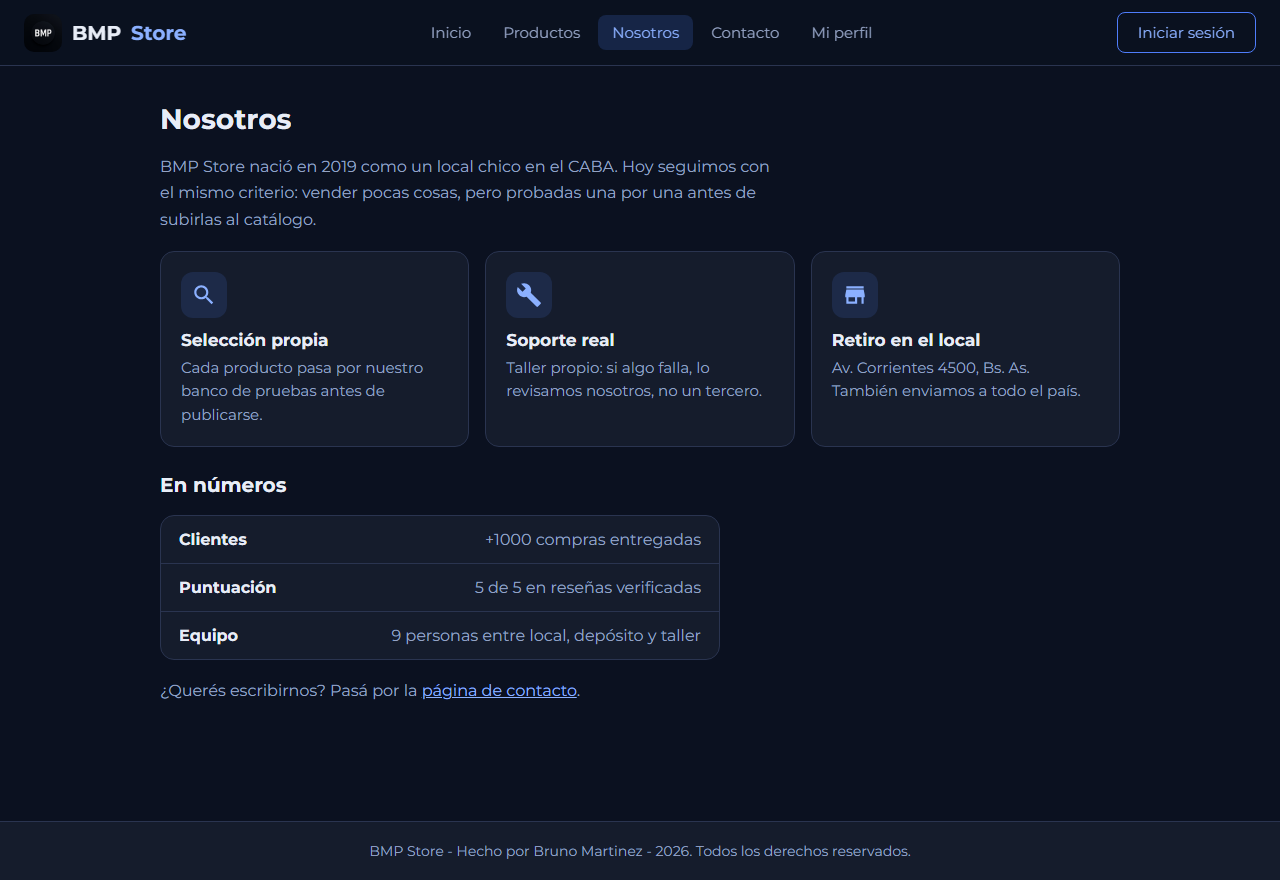
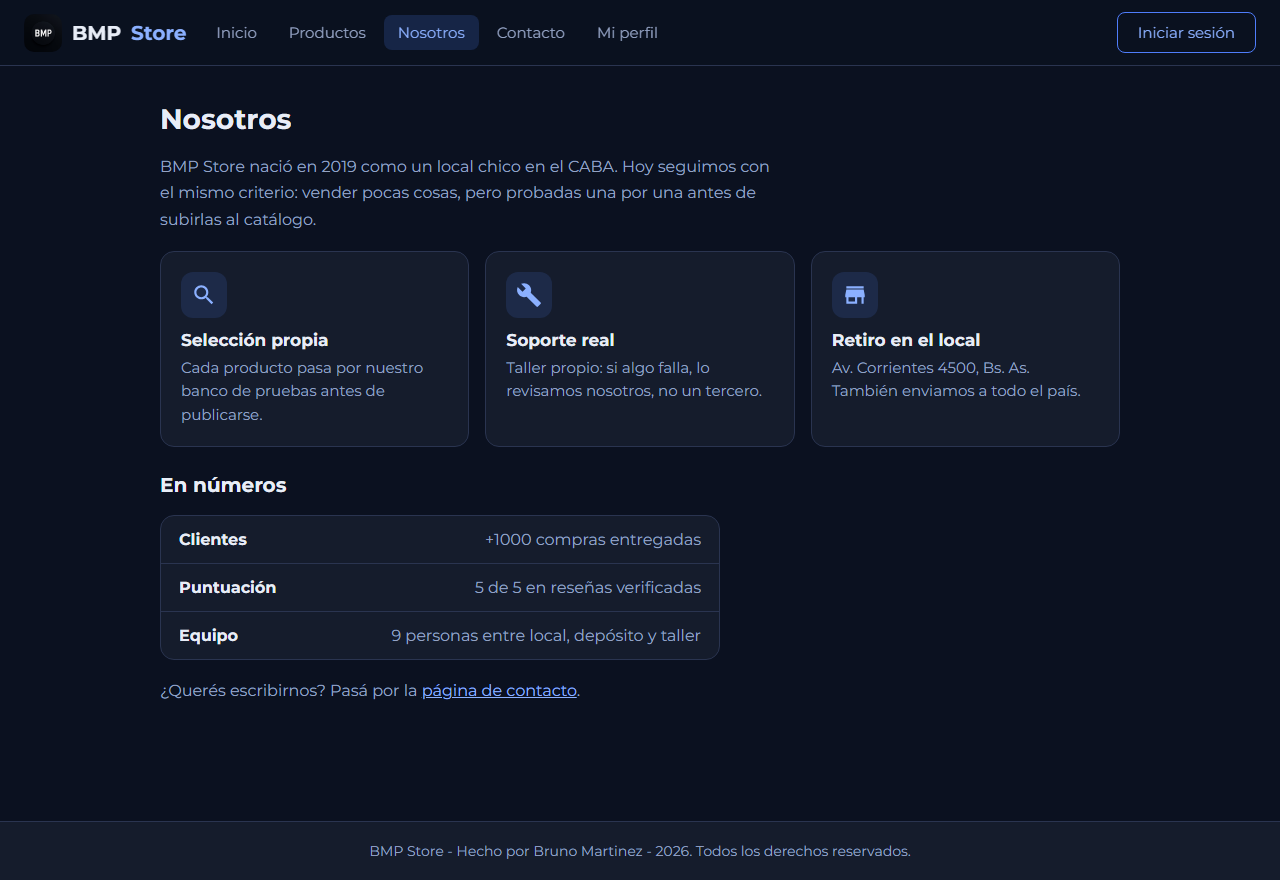
docs: configuracion del Readme y capturas

Changed region(s): [[0.2188, 0.0, 0.5938, 0.0614], [0.625, 0.0307, 0.6875, 0.0614], [0.1562, 0.0307, 0.1875, 0.0614]]

diff --git a/README.md b/README.md
@@ -54,6 +54,29 @@ y `Route` dentro de un layout con navegación fija.
 
 ![Página de contacto](media/contacto.png)
 
+### Vista móvil (390 px)
+
+| Inicio | Menú desplegable | Ficha de producto |
+|--------|------------------|-------------------|
+| ![Inicio en móvil](media/mobile-inicio.png) | ![Menú hamburguesa abierto](media/mobile-menu.png) | ![Producto en móvil](media/mobile-producto.png) |
+
+---
+
+## Diseño responsive
+
+El layout se adapta con **CSS puro** (sin librerías) y un único punto de corte en
+**720 px**:
+
+| Zona | En escritorio | En móvil |
+|------|---------------|----------|
+| Barra de navegación | Logo + enlaces + sesión en una fila | Botón hamburguesa que abre y cierra un panel vertical; el logo queda solo con el texto |
+| Grilla de productos | `repeat(auto-fill, minmax(220px, 1fr))`: 4 columnas | La misma regla resuelve 1 columna sola, sin media query |
+| Ficha del producto | `grid` de 2 columnas (foto + datos) | 1 columna, foto más chica |
+| Botones y buscador | Ancho según contenido | Ocupan todo el ancho para tocarlos con el pulgar |
+
+El menú móvil es lo único que necesita JavaScript: un `useState` en `Layout.jsx`
+guarda si está abierto, y cada `NavLink` lo cierra al navegar.
+
 ---
 
 ## Rutas de la aplicación
@@ -90,16 +113,13 @@ y `Route` dentro de un layout con navegación fija.
 
 ## Cómo funciona la ruta protegida
 
-1. Alguien entra a `/perfil` sin haber iniciado sesión.
-2. `RutaProtegida` no encuentra usuario y devuelve
-   `<Navigate to="/login" state={{ desde: location.pathname }} replace />`.
-3. `Login.jsx` lee ese `state` con `useLocation` y muestra el aviso
-   *«Necesitás iniciar sesión para ver la página que querías visitar»*.
-4. Al enviar el formulario se guarda el usuario y `useNavigate` devuelve a la ruta
-   pedida originalmente (`navigate(desde, { replace: true })`).
+Si entrás a `/perfil` sin sesión, `RutaProtegida` te manda al login con `Navigate`
+y guarda de dónde venías en el `state`. El login lee ese dato con `useLocation`,
+avisa por qué te redirigió y, cuando entrás, `useNavigate` te devuelve a la página
+que querías ver.
 
-La sesión se guarda en un `useState` de `App.jsx`: es una simulación de front-end,
-no hay backend ni validación de contraseña.
+La sesión se guarda en un `useState` de `App.jsx`: no hay backend ni validación de
+contraseña, es solo una simulación.
 
 ---
 
@@ -210,29 +230,19 @@ npm run lint      # Revisa el código con oxlint
 
 - Documentación oficial de React: <https://es.react.dev/>
 - Documentación oficial de React Router: <https://reactrouter.com/>
-- `BrowserRouter`: <https://reactrouter.com/api/declarative-routers/BrowserRouter>
-- `Route` y `Routes`: <https://reactrouter.com/start/declarative/routing>
-- `Link` y `NavLink`: <https://reactrouter.com/start/declarative/navigating>
-- `useParams`: <https://reactrouter.com/api/hooks/useParams>
-- `useNavigate`: <https://reactrouter.com/api/hooks/useNavigate>
-- `useSearchParams`: <https://reactrouter.com/api/hooks/useSearchParams>
-- `useLocation`: <https://reactrouter.com/api/hooks/useLocation>
-- `Outlet` y rutas anidadas: <https://reactrouter.com/start/declarative/routing#nested-routes>
+- Rutas con `Routes` y `Route`: <https://reactrouter.com/start/declarative/routing>
+- Navegación con `Link` y `useNavigate`: <https://reactrouter.com/start/declarative/navigating>
+- Hooks de React Router (`useParams`, `useSearchParams`, `useLocation`): <https://reactrouter.com/api/hooks/useParams>
 - Documentación oficial de Vite: <https://vite.dev/>
 - Variables CSS (MDN): <https://developer.mozilla.org/es/docs/Web/CSS/Using_CSS_custom_properties>
 
 ## Créditos de recursos
 
-- **Logo BMP**: diseño propio.
-- **Fotos de los productos**: imágenes de demostración de DummyJSON
-  (<https://dummyjson.com/>), de uso libre para proyectos de prueba. Están
-  guardadas en `public/img/` para que el sitio funcione sin depender de un
-  servidor externo.
-- **Íconos**: trazados SVG de Material Symbols de Google
-  (<https://fonts.google.com/icons>), licencia Apache 2.0.
-- **Tipografía**: Montserrat, de Google Fonts
-  (<https://fonts.google.com/specimen/Montserrat>), licencia SIL Open Font.
-- Las marcas y modelos que aparecen en el catálogo se usan solo con fines de
-  demostración.
+- Logo BMP: diseño propio.
+- Fotos de los productos: DummyJSON (<https://dummyjson.com/>). Las descargué a
+  `public/img/` para no depender de un servidor externo.
+- Íconos: Material Symbols de Google (<https://fonts.google.com/icons>).
+- Tipografía: Montserrat, de Google Fonts.
+- Las marcas y modelos del catálogo se usan solo como ejemplo.
 
 ---
